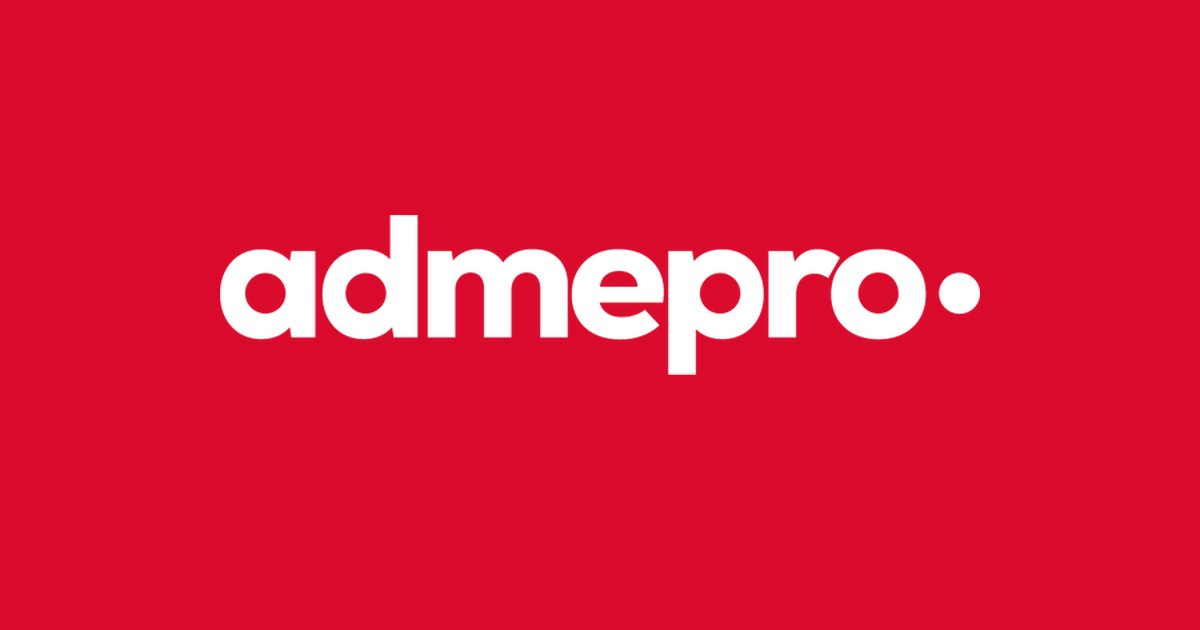
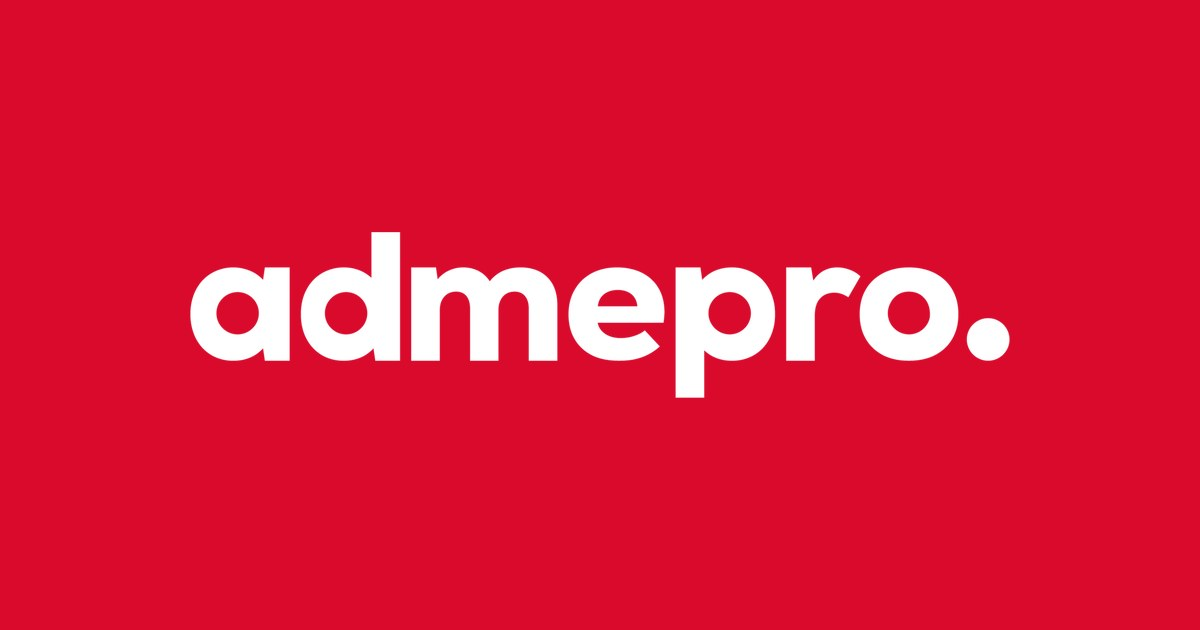
admepro-website: new admepro wordmark in the footer and the About page header
- Logo from the supplied artwork, with a white-text version for dark mode
- Share image (Open Graph) rebuilt from the same logo

Claude-Session: https://claude.ai/code/session_01R5zAhSUP9F2tLqWnqTzDE7

Changed region(s): [[0.1542, 0.3317, 0.8633, 0.6333]]

diff --git a/admepro-website/src/assets/css/site.css b/admepro-website/src/assets/css/site.css
@@ -190,7 +190,7 @@ body.menu-open { overflow: hidden; }
 .cfooter { background: var(--surface); border-top: 1px solid var(--border); padding: 56px 20px 28px; font-family: var(--chrome); }
 .cfooter-in { max-width: 1100px; margin: 0 auto; }
 .cfooter-top { display: flex; justify-content: space-between; flex-wrap: wrap; gap: 32px; }
-.cfooter-logo img { height: 32px; width: auto; }
+.cfooter-logo img { width: clamp(190px, 20vw, 260px); height: auto; }
 .cfooter-cols { display: grid; grid-template-columns: repeat(auto-fit, minmax(200px, 1fr)); gap: 48px; width: min(560px, 100%); }
 .cfooter-col { display: flex; flex-direction: column; gap: 20px; }
 .cfooter-col p { margin: 0; }
@@ -413,6 +413,8 @@ a.rev-card:hover .h5, a.rev-card:focus-visible .h5, a.rev-card:hover .rev-text, 
 .page-head { padding-block: clamp(100px, 11vw, 150px) clamp(24px, 3vw, 40px); }
 .page-head .h1 { max-width: 20ch; }
 .about-hero { padding-block: clamp(110px, 12vw, 170px) 0; text-align: center; }
+.about-logo { margin: 0; text-align: center; }
+.about-logo img { width: min(900px, 80vw); height: auto; margin-inline: auto; }
 .about-lead { max-width: 24ch; }
 
 /* about */
